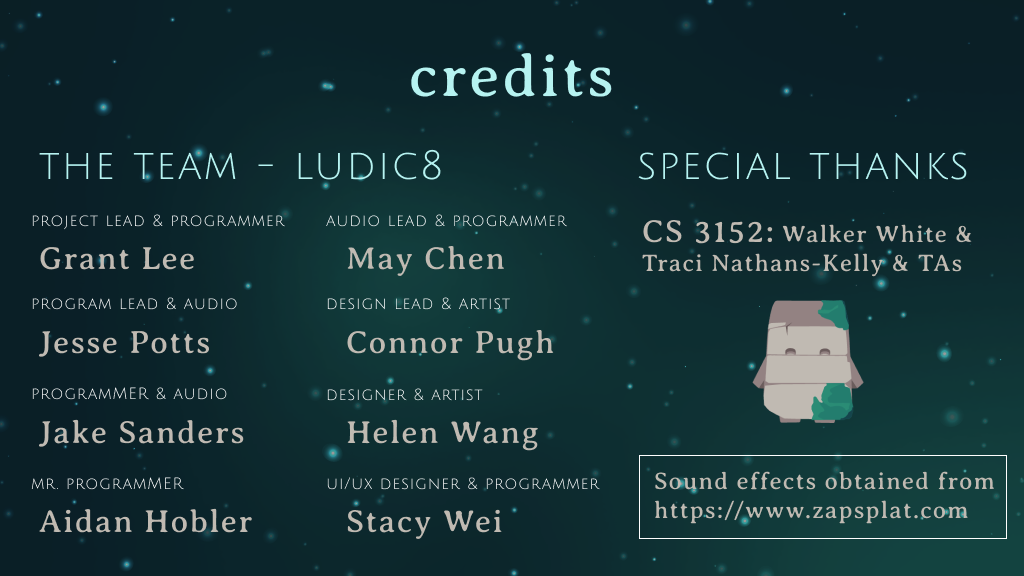
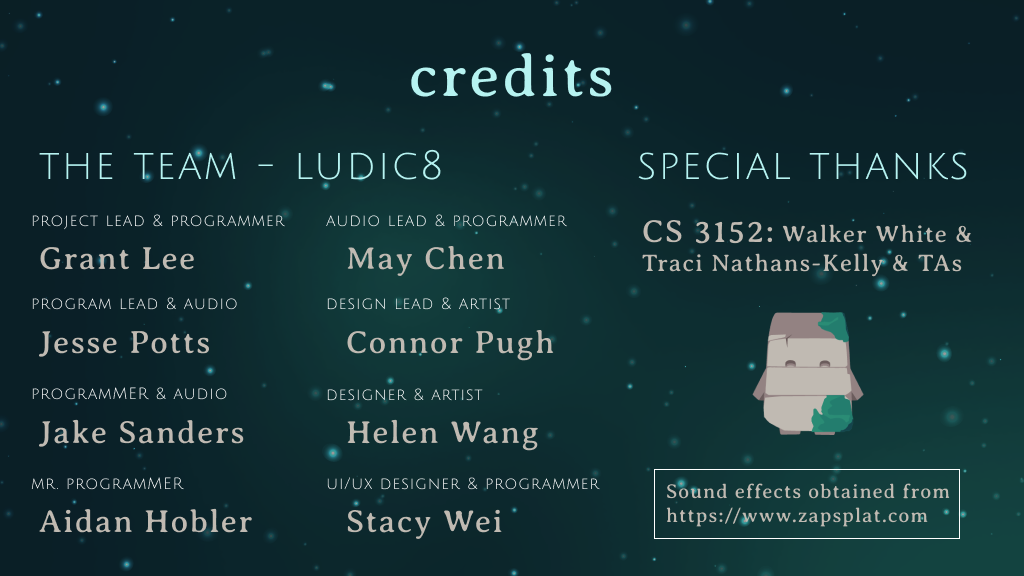
Fixed ld dark mode and updated assets

Changed region(s): [[0.625, 0.8125, 0.9688, 0.9062], [0.7188, 0.5, 0.8438, 0.7812]]

diff --git a/core/src/edu/cornell/gdiac/physics/WorldController.java b/core/src/edu/cornell/gdiac/physics/WorldController.java
@@ -1289,10 +1289,11 @@ public abstract class WorldController implements Screen {
 						(scale.x * lowerLeft.x) + x, (scale.y * lowerLeft.y) + y,  width, height,
 						0.f, 0.f, width / canvas.getWidth(), height / canvas.getHeight());
 
-				canvas.draw(backgroundNightTexture.getTexture(), new Color(1,1,1,1 - currentLevel/32.0f),
-						(scale.x * lowerLeft.x) + x, (scale.y * lowerLeft.y) + y,  width, height,
-						0.f, 0.f, width / canvas.getWidth(), height / canvas.getHeight());
-
+				if (renderHUD) {
+					canvas.draw(backgroundNightTexture.getTexture(), new Color(1,1,1,1 - currentLevel/32.0f),
+							(scale.x * lowerLeft.x) + x, (scale.y * lowerLeft.y) + y,  width, height,
+							0.f, 0.f, width / canvas.getWidth(), height / canvas.getHeight());
+				}
 //				canvas.draw(backgroundTexture, Color.WHITE, TILE_WIDTH * scale.x * x, TILE_WIDTH * scale.y * y,canvas.getWidth(),canvas.getHeight());
 			}
 		}

diff --git a/core/src/edu/cornell/gdiac/physics/Loader.java b/core/src/edu/cornell/gdiac/physics/Loader.java
@@ -329,7 +329,7 @@ public class Loader {
      *
      * @return A complete Level object that is the json file deserialized
      */
-    public Level loadLevel(FileHandle f, int level) {
+    public Level loadLevel(FileHandle f, int level, boolean isGameplay) {
         // If this ever breaks try putting .readString() at the end of internal(f)
         // Can't load from a file handle because the file system is weird when
         // exported to a .jar
@@ -342,7 +342,9 @@ public class Loader {
         int tutorialNum = levelData.tutorialNum;
 
         // Opacity of the nightmode
-        Color opacity = new Color(1,1,1, 1 - level/32.0f);
+        float value = isGameplay ? 1 - level/32.0f : 0;
+        Color opacity = new Color(1,1,1, value);
+
 
         // Create the walls
         Wall[] walls = new Wall[levelData.wallData.length];

diff --git a/core/src/edu/cornell/gdiac/physics/LevelDesignerMode.java b/core/src/edu/cornell/gdiac/physics/LevelDesignerMode.java
@@ -687,7 +687,7 @@ public class LevelDesignerMode extends WorldController {
 		}
         //levelToLoad = Gdx.files.internal("levels/custom" + currentLevel + ".lvl");
 
-       level = loader.loadLevel(levelToLoad, 0);
+       level = loader.loadLevel(levelToLoad, 0, false);
 
 		dimensions = level.dimensions;
 		lowerLeft.setZero();

diff --git a/core/src/edu/cornell/gdiac/physics/GamePlayController.java b/core/src/edu/cornell/gdiac/physics/GamePlayController.java
@@ -262,7 +262,7 @@ public class GamePlayController extends WorldController {
 			levelToLoad = levels.get(levelIndex);
 		}
 
-		level = loader.loadLevel(levelToLoad, levelIndex);
+		level = loader.loadLevel(levelToLoad, levelIndex, true);
 
 		/* Load in Tutorial */
 		tutorial.reset();
